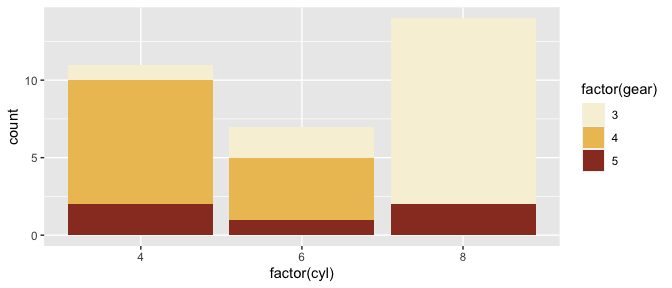
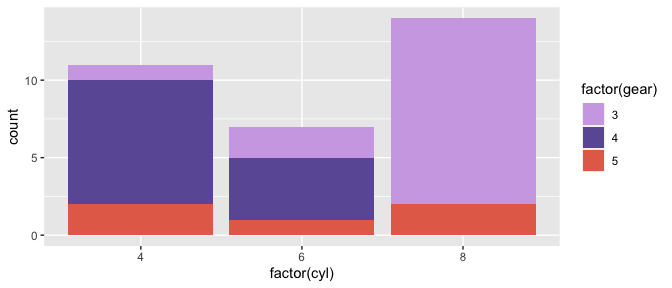
Initial commit

diff --git a/README.md b/README.md
@@ -2,18 +2,20 @@
 
 ![](maizePal.png)
 
-\#\#\#Dear user,
+### Why MaizePal?
 
 About one year ago, my research took an unexpected turn & I found myself
 studying maize. For better or worse, I was here, surrounded by corn & by
 people who seemed to be obsessed with it. At first, I didn’t “get it”
 because to me, corn was corn was corn. It was yellow and green and
-covered vast swaths of the Midwest. Anyone who studies *traditional*
+covered vast swaths of the Midwest. Anyone who studies traditional
 varieties of maize knows, however, that this is not a very generous
-archetype. (NOTE: Traditional, or landrace, varieties are crops that
-have been bred by farmers through artificial selection, outside of the
-formal breeding sector and often associated with a particular
-agroecosystem and cultural heritage).
+archetype.
+
+> Traditional, or landrace, varieties are crops that have been bred by
+> farmers through artificial selection, outside of the formal breeding
+> sector and often associated with a particular agroecosystem and
+> cultural heritage).
 
 The lab I recently joined ([GEMMAlab](https://www.gemmalab.org/))
 studies maize landraces to ask fundamental questions about evolution and
@@ -34,7 +36,7 @@ that corn is just yellow and green. Instead, I wrote an R package
 inspired by the colors and cobs I’ve seen. This collection of color
 palettes is not perfect nor complete, and I will continue to add to it
 as I come across more cobs I would like to document and share. In the
-meantime, I hope you find this package is useful, colorful, and fun.
+meantime, I hope you find this package to be useful, colorful, and fun.
 
 Installation
 ------------
@@ -52,7 +54,7 @@ library("MaizePal")
 # See all palettes
 names(maize_palettes)
 #>  [1] "Anthocyanins1" "Anthocyanins2" "RubyGold"      "Sweetest"     
-#>  [5] "GlassGem"      "Husk"          "HighlandMAGIC" "MaizAzul"     
+#>  [5] "GlassGem"      "PodCorn"       "HighlandMAGIC" "MaizAzul"     
 #>  [9] "JimmyRed"      "FloweringTime" "HopiBlue"      "Painted"      
 #> [13] "MaizMorado"    "OaxacaGreen"
 ```
@@ -156,13 +158,13 @@ maize_pal("FloweringTime")
 
 ![](figure/FloweringTime-1.png)
 
-### Husk
+### PodCorn
 
 ``` r
-maize_pal("Husk")
+maize_pal("PodCorn")
 ```
 
-![](figure/Husk-1.png)
+![](figure/PodCorn-1.png)
 
 ### HighlandMAGIC
 
@@ -172,10 +174,12 @@ maize_pal("HighlandMAGIC")
 
 ![](figure/HighlandMAGIC-1.png)
 
+![](HighMAGIC.jpg)
+
 ``` r
 library("ggplot2")
 ggplot(mtcars, aes(factor(cyl), fill=factor(gear))) +  geom_bar() +
-  scale_fill_manual(values = maize_pal("Anthocyanins1"))
+  scale_fill_manual(values = maize_pal("GlassGem"))
 ```
 
 ![](figure/ggplot1-1.png)
